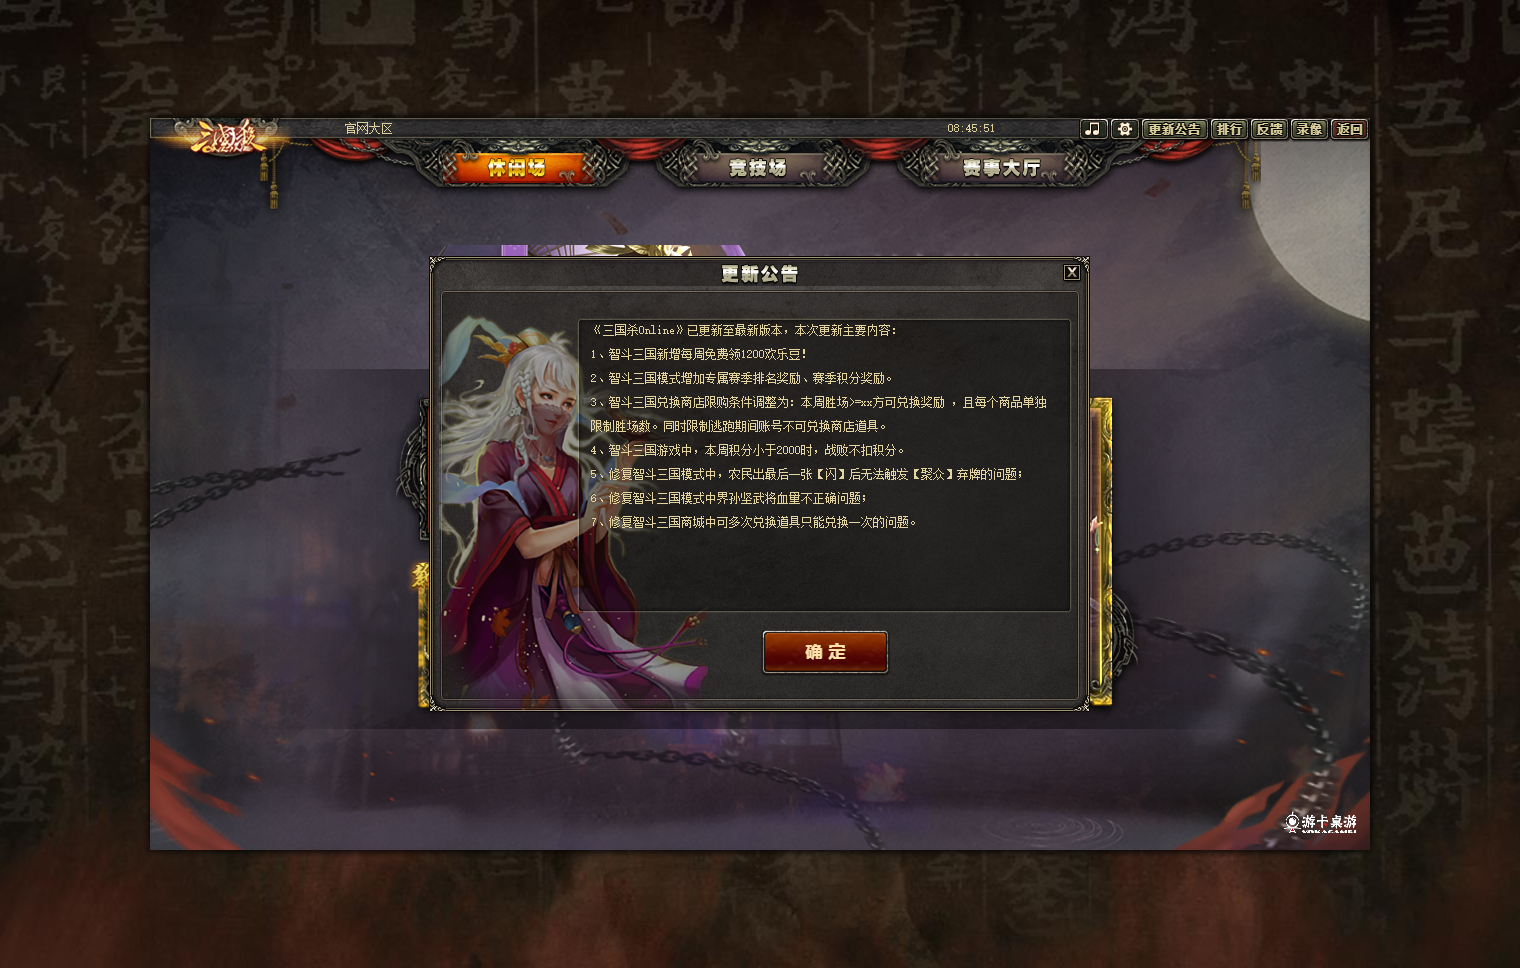
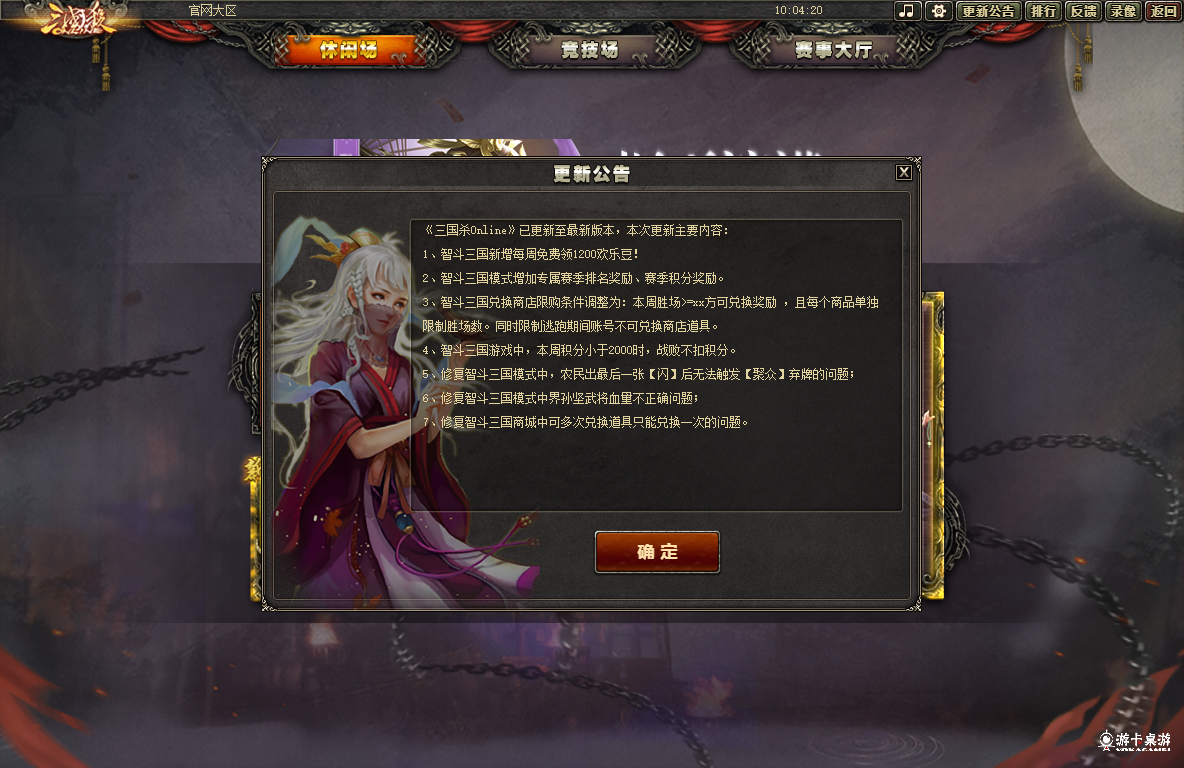
keep alive function

diff --git a/main.py b/main.py
@@ -9,6 +9,16 @@ from dotenv import dotenv_values
 import time
 from definitions import logger
 from platform import platform
+import imagehash
+from PIL import Image
+
+
+class LoginError(Exception):
+    pass
+
+
+class NetWorkBroken(Exception):
+    pass
 
 
 class GameRobot:
@@ -17,17 +27,21 @@ class GameRobot:
         os_type = platform()
         driver_name = 'chromedriver_windows.exe'
         if os_type.startswith('Linux'):
-            driver_path = f'/drivers/{driver_name}'
+            driver_path = f'drivers/{driver_name}'
             options = Options()
             options.add_argument('--headless')
             options.add_argument('--disable-gpu')  # Last I checked this was necessary.
             self.driver = webdriver.Chrome(driver_path, chrome_options=options)
         else:
-            self.driver = webdriver.Chrome(f'/drivers/{driver_name}')
+            self.driver = webdriver.Chrome(f'drivers/{driver_name}')
         self.driver.set_window_position(0, 0)
-        self.driver.set_window_size(1200, 900)
+        self.driver.set_window_size(1080, 768)
         self.login_timeout = login_timeout
         self.config = dotenv_values(".env")
+        self.rtn_btn_img = Image.open('resources/ret_btn.png')
+        self.rtn_btn_hash = imagehash.average_hash(self.rtn_btn_img)
+        self.rtn_btn_max_diff = 5
+        self.canvas = None
         self.login()
         logger.info('SGS game robot initialised')
 
@@ -51,29 +65,46 @@ class GameRobot:
                 expected_conditions.presence_of_element_located((By.CSS_SELECTOR, 'div#gameContainer > iframe')))
             logger.info('Switching to game frame')
             self.driver.switch_to.frame(element)
-            canvas = WebDriverWait(self.driver, 10).until(
+            canvas = WebDriverWait(self.driver, 50).until(
                 expected_conditions.presence_of_element_located((By.CSS_SELECTOR, 'canvas#layaCanvas')))
         except TimeoutException as e:
             logger.error('Cannot locate the canvas after logging in')
             raise e
         logger.info('Canvas detected. Waiting for the game to load')
+        rem_time = self.login_timeout
+        time.sleep(100)
+        while rem_time > 0:
+            # take screenshots and compare with existing image
+            self.driver.set_window_size(900, 900)
+            self.driver.set_window_size(1200, 900)
+            canvas.screenshot('canvas.png')
+            image = Image.open('canvas.png')
+            found = self.detect_ret_btn(image)
+            if found:
+                logger.info('Login successful')
+                self.canvas = canvas
+                return
+            # detect network issue
+            time.sleep(5)
+            rem_time -= 5
+        raise LoginError('Login failed')
 
     def keep_alive(self):
-        pass
+        logger.info('Looping to keep alive')
+        while True:
+            self.driver.execute_script("arguments[0].click();", self.canvas)
+            time.sleep(5)
 
-    def detect_ret_btn(self):
-        pass
+    def detect_ret_btn(self, image):
+        # size as 1184 * 768
+        top_right_corner = image.crop((1145, 0, 1182, 22))
+        current_hash = imagehash.average_hash(top_right_corner)
+        if abs(self.rtn_btn_hash-current_hash) < self.rtn_btn_max_diff:
+            return True
+        return False
 
     def play(self):
         pass
-
-
-
-
-
-
-
-
 
 
 if __name__ == '__main__':
